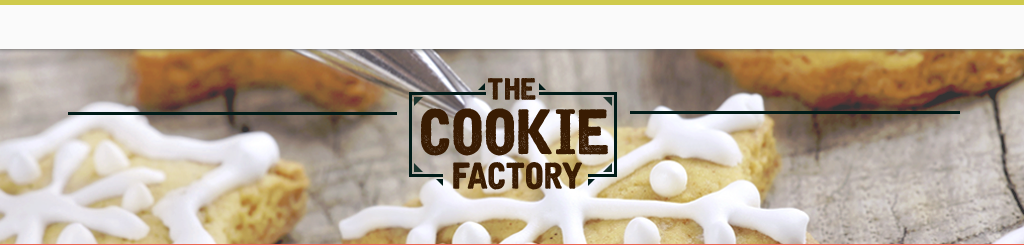
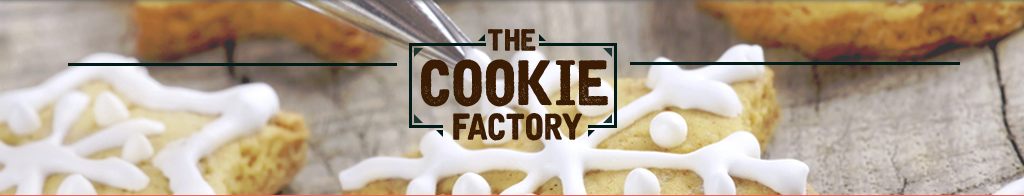
update design

diff --git a/client/css/stylesheet.css b/client/css/stylesheet.css
@@ -13,7 +13,7 @@
 	
 .header {
 	width:1024px;
-	height:244px;
+	height:196px;
 	margin-top:-10px;
 	background:url(../img/header.png);
 	float:left;
@@ -43,10 +43,22 @@
 
 /* top */
 
+.form-control{
+	height:25px !important;}
+
+.btn{
+	line-height:15px !important;
+	background:#5eb299;}
+
+.btn:hover{opacity:0.8;
+background:#5eb299;}
 
 .top {
-	float:right;
-	margin:10px 70px 0 0;}	
+	float:left;
+	font-size:12px;
+	height:55px;
+	width:1024px;
+	background:url(../img/topbar.png);}	
 
 .top a:hover{
 	opacity:0.8;}
@@ -54,6 +66,9 @@
 	
 h2 {
 	}
+	
+	.navbar-text {margin-top:-28px;
+	float:right}
 
 a img {
 	border:none;}
